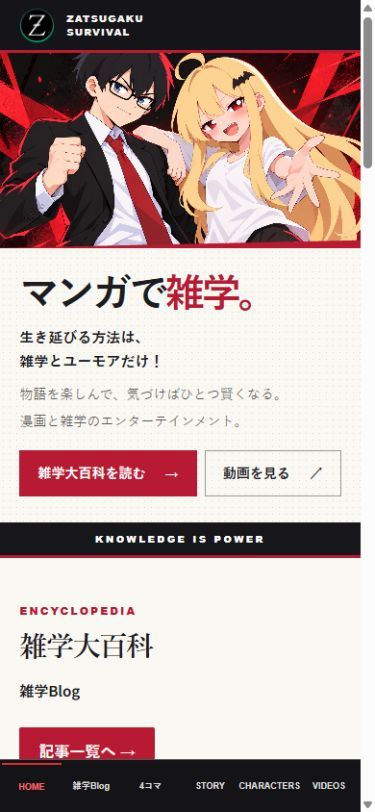
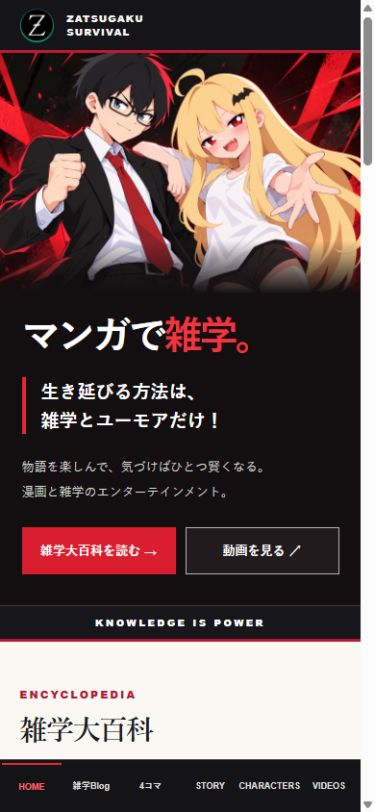
Restore the original dark red home hero and refresh previews

diff --git a/media.css b/media.css
@@ -28,71 +28,10 @@ header nav a::after { bottom: 5px; }
 :focus-visible { outline: 3px solid #d32240; outline-offset: 3px; }
 .blog-page footer { background: var(--media-ink); }
 
-/* An ink-and-paper spread with an angled edge on the official character art. */
-.home-hero {
-  color: var(--media-ink);
-  background: var(--media-paper);
-  border: 0;
-}
-.hero-inner {
-  max-width: 1600px;
-  min-height: 0;
-  isolation: isolate;
-  background: radial-gradient(#dcd7cc 0.8px, transparent 0.9px) 0 0 / 7px 7px;
-}
-.home-copy {
-  min-height: clamp(450px, 39vw, 605px);
-  width: 47%;
-  padding: clamp(30px, 4vw, 65px) 1% clamp(30px, 4vw, 65px) max(5vw, calc((100% - 1280px) / 2));
-}
-.home-copy h1 {
-  font-size: clamp(57px, 6.15vw, 100px);
-  line-height: 1.08;
-  letter-spacing: -.075em;
-  margin: 0 0 20px;
-  text-shadow: none;
-}
-.home-copy h1 em { color: var(--media-red); }
-.home-catch {
-  color: var(--media-ink);
-  border-left: 0;
-  padding: 0;
-  font-size: clamp(16px, 1.5vw, 23px);
-}
-.home-intro { color: var(--media-muted); margin-top: 14px; }
-.hero-visual {
-  inset: 0 0 0 43%;
-  z-index: -1;
-  background: var(--media-red);
-  clip-path: polygon(10% 0, 100% 0, 100% 100%, 0 100%);
-}
-.hero-visual img {
-  width: 100%;
-  height: 100%;
-  object-fit: cover;
-  object-position: 50% 44%;
-  clip-path: polygon(11% 0, 100% 0, 100% 100%, 1.1% 100%);
-}
-.hero-visual::after { display: none; }
-.home-actions { margin-top: 20px; }
-.home-actions .home-button,
-.home-actions a {
-  min-width: 0;
-  min-height: 46px;
-  padding: 12px 18px;
-  font-size: 14px;
-  text-align: center;
-}
-.home-actions .primary { background: var(--media-red); border-color: var(--media-red); color: white; }
-.home-actions .secondary { background: var(--media-paper); color: var(--media-ink); border-color: var(--media-ink); }
-.home-teaser {
-  margin-top: 16px;
-  border: 0;
-  border-top: 1px solid #b8b0a6;
-  padding: 10px 0 0;
-  color: var(--media-ink);
-}
-.home-teaser small { color: var(--media-muted); }
+.home-hero { color: #fff; }
+.home-hero .home-button { color: #fff; }
+.home-hero .home-button:not(.primary) { background: #211b1e; border-color: #b8b1b4; }
+.home-hero .home-button:hover, .home-hero .home-button:focus-visible { border-color: #fff; }
 .home-motto {
   min-height: 0;
   padding: 10px 4%;
@@ -222,10 +161,7 @@ header nav a::after { bottom: 5px; }
 @media (min-width: 701px) and (max-width: 950px) {
   header { padding-inline: 3%; }
   header nav { gap: 12px; }
-  .home-copy { width: 50%; padding-left: 4vw; }
-  .hero-visual { left: 46%; }
-  .hero-visual img { object-position: 54% 50%; }
-  .home-copy h1 { font-size: clamp(48px, 6.5vw, 66px); }
+
 }
 @media (max-width: 700px) {
   :root { --media-gutter: 5.4%; }
@@ -248,35 +184,13 @@ header nav a::after { bottom: 5px; }
     letter-spacing: -.02em;
     text-align: center;
   }
-  .hero-inner { display: flex; flex-flow: column; }
-  .hero-visual {
-    order: 0;
-    position: relative;
-    inset: auto;
-    height: clamp(191px, 52vw, 310px);
-    clip-path: none;
-    background: var(--media-red);
-  }
-  .hero-visual img {
-    width: 100%;
-    height: 100%;
-    object-position: center 35%;
-    clip-path: polygon(0 0, 100% 0, 100% 96%, 0 100%);
-  }
-  .home-copy {
-    order: 1;
-    width: 100%;
-    min-height: 0;
-    padding: 23px var(--media-gutter) 27px;
-  }
-  .home-copy h1 { font-size: clamp(38px, 10.5vw, 61px); margin-bottom: 13px; }
-  .home-copy h1 br { display: none; }
-  .home-catch { font-size: clamp(15px, 3.8vw, 21px); line-height: 1.65; }
-  .home-intro { margin-top: 8px; font-size: 14px; }
-  .home-actions { width: 100%; gap: 8px; margin-top: 16px; }
-  .home-actions .home-button { flex: 1 1 auto; justify-content: center; }
-  .home-teaser { max-width: 100%; }
-  .home-teaser img { width: 70px; }
+  .home-hero .hero-visual { order: 0; height: auto; aspect-ratio: 3 / 2; background: #130f11; }
+  .home-hero .hero-visual img { object-fit: contain; object-position: center; }
+  .home-hero .hero-visual::after { background: linear-gradient(to bottom, transparent 78%, #130f11); }
+  .home-hero .home-copy { padding: 20px 6% 32px; }
+  .home-hero .home-copy h1 { font-size: clamp(40px, 10vw, 64px); }
+  .home-hero .home-copy h1 br { display: none; }
+  .home-hero .home-button { flex: 1 1 145px; min-width: 0; gap: 4px; padding: 13px 8px; justify-content: center; white-space: nowrap; }
   .home-motto { font-size: 10px; }
   .media-feature .blog-card > a { display: block; }
   .media-feature .blog-card img { height: auto; }
